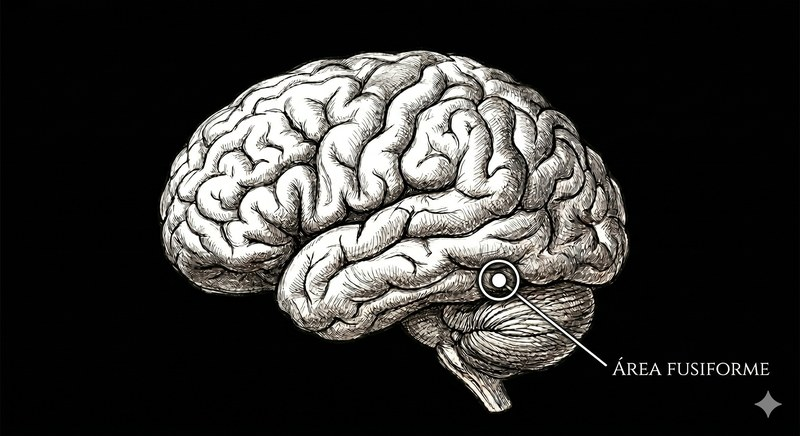
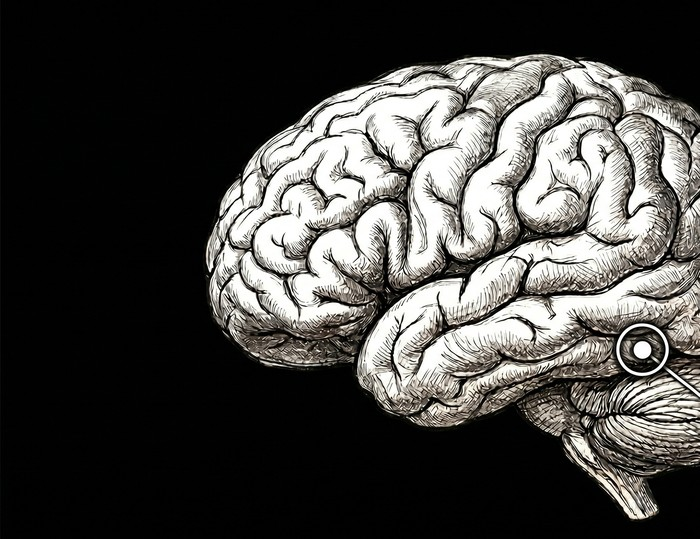
Crop brain image to brain area only; fix object-fit display in card
Re-crop JPEG to left 68% of original (removes text label, keeps annotation
circle). Use fixed 178px container height with object-fit:cover and
object-position:right 25% to center the brain illustration in the card.

diff --git a/styles.css b/styles.css
@@ -1866,13 +1866,17 @@ dd {
 .davinci-sketch-wrap {
   position: relative;
   width: 100%;
+  height: 178px;
+  overflow: hidden;
   line-height: 0;
 }
 
 .davinci-sketch-img {
   display: block;
   width: 100%;
-  height: auto;
+  height: 100%;
+  object-fit: cover;
+  object-position: right 25%;
 }
 
 .davinci-caption {